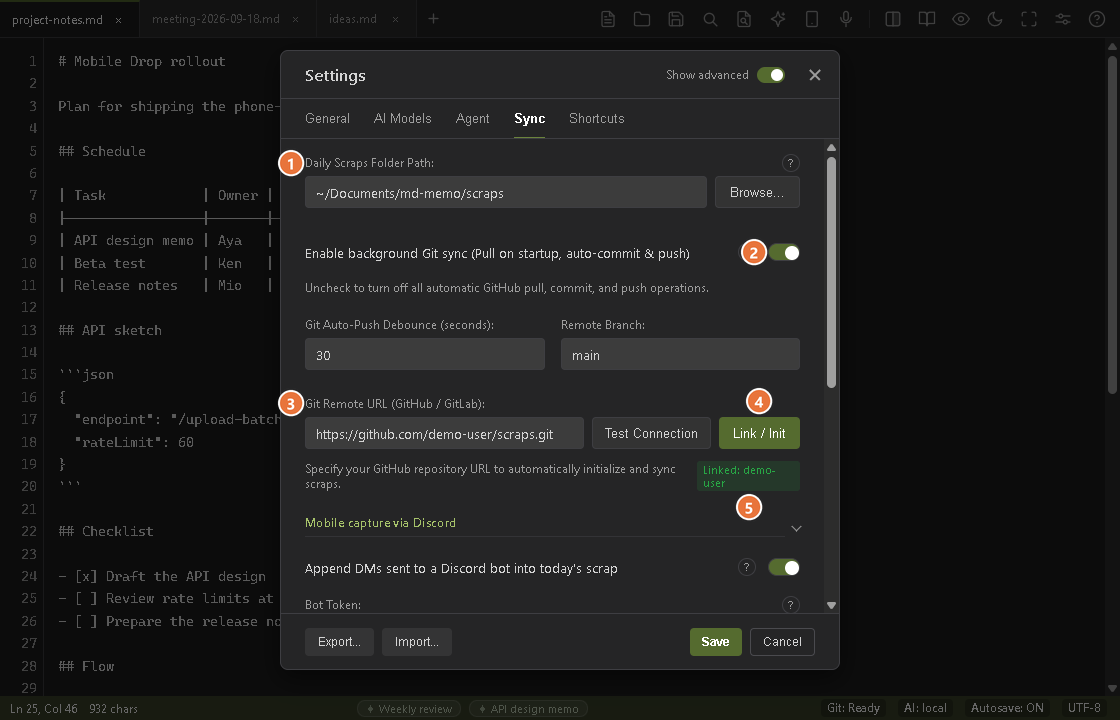
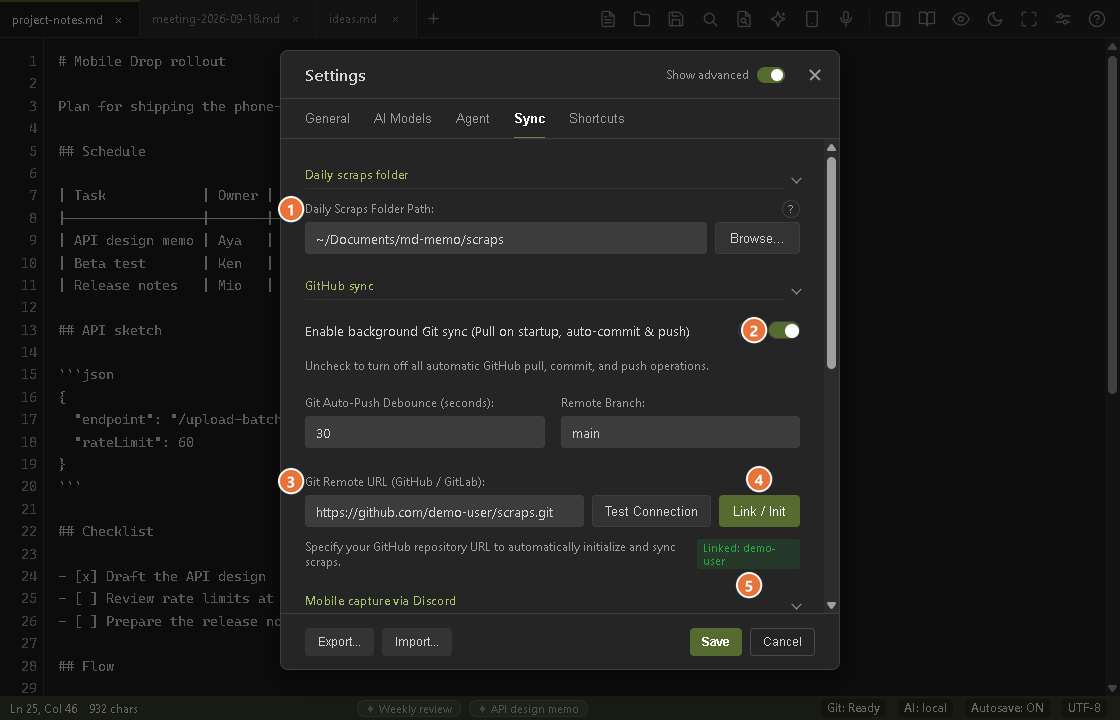
feat(settings): the Sync tab folds into Scraps folder and GitHub sync, Send To folds too; drop the model summary card
The Sync tab gets two sections like the others (the scraps folder stays open, GitHub sync starts folded) and the Send To section is wrapped as well: without the native binding app.js now hides the whole fold. The 'feature -> model setting' card in the AI Models tab repeated what each section says (the image-generation key already says it inherits in its placeholder) and named a tab that does not exist in English, so it and its strings are gone. Manual pictures re-shot.

diff --git a/frontend/js/i18n.js b/frontend/js/i18n.js
@@ -909,6 +909,8 @@ const I18N = {
 
     // --- Send To (Explorer right-click OCR) ---
     sectionSendTo: "OS Integration (Send To)",
+    sectionScrapFolder: "Daily scraps folder",
+    sectionGitHub: "GitHub sync",
     sendToLabel: "Send To menu (image → OCR)",
     sendToHint: "Right-click an image file in Explorer → Send To → MD-Memo (OCR) to extract its text into today's scrap.",
     sendToStatusInstalled: "Installed",
@@ -920,13 +922,6 @@ const I18N = {
     // --- Settings screen mistake-proofing & clarity ---
     languageImeGuardianHint: "Choosing Japanese also turns on IME Guardian, in the Editor & Input section below (you can turn it off there).",
     statusChecking: "Checking...",
-    modelSummaryTitle: "Feature → Which model setting it uses",
-    modelSummaryRowWrite: "Write / Chat / Ask AI → Text LLM",
-    modelSummaryRowCli: "Run (CLI command generation) → Text LLM (blank = inherit)",
-    modelSummaryRowGhost: "Text prediction (ghost text) → its own settings below",
-    modelSummaryRowVision: "Image OCR & Vision → its own settings below",
-    modelSummaryRowImageGen: "Image generation → Vision key → Text key (blank = inherit in that order)",
-    modelSummaryRowActions: "Suggestions (Quick Actions) → its own settings (Delegate tab)",
     textModelFallbackHint: "If blank: qwen2.5:latest",
     cliModelHint: "Blank = use the Text model from the AI Models tab.",
     actionApiBlockHint: "With both URL and API key blank, nothing leaves your machine — suggestions come from built-in local rules. If you fill them in, the text around your caret is sent to that API.",
@@ -1995,6 +1990,8 @@ const I18N = {
 
     // --- 送る（エクスプローラー右クリックOCR） ---
     sectionSendTo: "OS連携（送る）",
+    sectionScrapFolder: "保存先フォルダ",
+    sectionGitHub: "GitHub連携",
     sendToLabel: "「送る」メニュー（画像→OCR）",
     sendToHint: "エクスプローラーで画像ファイルを右クリック→送る→MD-Memo (OCR) を選ぶと、文字を抽出して今日のスクラップに追記します。",
     sendToStatusInstalled: "設置済み",
@@ -2006,13 +2003,6 @@ const I18N = {
     // --- 設定画面: 誤操作防止・明確化 ---
     languageImeGuardianHint: "日本語を選ぶと、下の「エディタ & 入力」にある IME Guardian も自動でオンになります（そこで変更できます）。",
     statusChecking: "確認中...",
-    modelSummaryTitle: "機能 → 使われるモデル設定",
-    modelSummaryRowWrite: "書く・チャット・AIに質問 → テキストLLM",
-    modelSummaryRowCli: "実行する（CLIコマンド生成） → テキストLLM（空欄で継承）",
-    modelSummaryRowGhost: "入力予測（ゴーストテキスト） → 以下の専用設定",
-    modelSummaryRowVision: "画像OCR・Vision → 以下の専用設定",
-    modelSummaryRowImageGen: "画像生成 → Vision のキー → テキストのキー（空欄でこの順に継承）",
-    modelSummaryRowActions: "提案（アクション候補） → 専用設定（連携タブ）",
     textModelFallbackHint: "空欄の場合: qwen2.5:latest",
     cliModelHint: "空欄なら『AIモデル』タブのテキスト用モデルを使います",
     actionApiBlockHint: "URL と API キーが両方空欄なら、ノートの内容は外部に送信されず、内蔵のローカル推論だけで候補を出します。入力すると、キャレット周辺のテキストがその API に送信されます。",

diff --git a/frontend/index.html b/frontend/index.html
@@ -623,16 +623,6 @@
 
           <!-- 2. AIモデル (AI Models: Text, Ghost Text, Vision, Image Gen) -->
           <div id="pane-model" class="settings-pane hidden">
-            <!-- Which feature uses which model setting, at a glance -->
-            <details class="model-summary-card" style="background: rgba(255, 255, 255, 0.03); border: 1px solid var(--border-color); border-radius: 6px; padding: 8px 14px; margin-bottom: 12px; font-size: 12px; line-height: 1.7;">
-              <summary style="font-weight: 600; cursor: pointer;" data-i18n="modelSummaryTitle">Feature &rarr; Which model setting it uses</summary>
-              <div data-i18n="modelSummaryRowWrite">Write / Chat / Ask AI &rarr; Text LLM</div>
-              <div data-i18n="modelSummaryRowCli">Run (CLI command generation) &rarr; Text LLM (blank = inherit)</div>
-              <div data-i18n="modelSummaryRowGhost">Ghost Text autocomplete &rarr; its own settings below</div>
-              <div data-i18n="modelSummaryRowVision">Image OCR &amp; Vision &rarr; its own settings below</div>
-              <div data-i18n="modelSummaryRowImageGen">Image generation &rarr; Vision key &rarr; Text key (blank = inherit in that order)</div>
-              <div data-i18n="modelSummaryRowActions">Suggestions (Quick Actions) &rarr; its own settings (Delegate tab)</div>
-            </details>
             <!-- Local AI Setup -->
             <div id="local-ai-card" class="local-ai-card" style="background: rgba(255, 255, 255, 0.04); border: 1px solid var(--border-color); border-radius: 6px; padding: 12px 14px; margin-bottom: 16px;">
               <div style="display: flex; justify-content: space-between; align-items: center;">
@@ -1083,7 +1073,7 @@
             </div>
 
             <!-- Section 5: OS連携（送る） -->
-            <div id="sendto-section" class="settings-section-header" data-plain style="margin-top: 18px;">
+            <div id="sendto-section" class="settings-section-header" style="margin-top: 18px;">
               <h4 data-i18n="sectionSendTo">OS Integration (Send To)</h4>
             </div>
             <div id="sendto-card" class="local-ai-card" style="background: rgba(255, 255, 255, 0.04); border: 1px solid var(--border-color); border-radius: 6px; padding: 12px 14px;">
@@ -1118,6 +1108,9 @@
               </div>
             </div>
 
+            <div class="settings-section-header" data-basic>
+              <h4 data-i18n="sectionScrapFolder">Daily scraps folder</h4>
+            </div>
             <div class="form-group">
               <label for="cfg-scrap-dir" data-i18n="scrapDirLabel">Daily Scraps Folder Path:</label>
               <div style="display: flex; gap: 8px;">
@@ -1126,7 +1119,10 @@
               </div>
               <small data-i18n="scrapDirHint">Folder where piped logs (cat file | md-memo) and daily notes are saved.</small>
             </div>
-            <div class="form-group inline-group" style="margin-top: 14px;">
+            <div class="settings-section-header" style="margin-top: 18px;">
+              <h4 data-i18n="sectionGitHub">GitHub sync</h4>
+            </div>
+            <div class="form-group inline-group">
               <label>
                 <input type="checkbox" id="cfg-git-sync-enabled" checked> <span data-i18n="gitSyncEnabledLabel">Enable background Git sync (Pull on startup, auto-commit & push)</span>
               </label>

diff --git a/frontend/js/app.js b/frontend/js/app.js
@@ -10959,6 +10959,9 @@ STRICT SYNTAX SAFETY RULES:
   const sendToCard = document.getElementById('sendto-card');
   const hasSendToBackend = !!(window.backend && window.backend.isSendToShortcutInstalled);
   if (!hasSendToBackend) {
+    // the section is folded like the others, so hide the whole fold, not just its heading
+    const sendToFold = sendToSection && sendToSection.closest && sendToSection.closest('details.settings-section');
+    if (sendToFold) sendToFold.classList.add('hidden');
     if (sendToSection) sendToSection.classList.add('hidden');
     if (sendToCard) sendToCard.classList.add('hidden');
   }

diff --git a/img/manual/shots.md b/img/manual/shots.md
@@ -410,7 +410,7 @@ annotation text. Everything shown is demo data on a fixed date (2026-09-18).
 ## settings-general
 
 - Files: `img/manual/ja/settings-general.png`, `img/manual/en/settings-general.png`
-- Size: 1120x720 px (ja 44 KB, en 39 KB)
+- Size: 1120x720 px (ja 43 KB, en 39 KB)
 - Kind: full picture
 - State: Settings dialog, General tab.
 - Markers:
@@ -482,7 +482,7 @@ annotation text. Everything shown is demo data on a fixed date (2026-09-18).
 ## settings-sync
 
 - Files: `img/manual/ja/settings-sync.png`, `img/manual/en/settings-sync.png`
-- Size: 1120x720 px (ja 46 KB, en 42 KB)
+- Size: 1120x720 px (ja 45 KB, en 40 KB)
 - Kind: full picture
 - State: Settings dialog, Sync tab (scraps folder and Git).
 - Markers:
@@ -519,7 +519,7 @@ annotation text. Everything shown is demo data on a fixed date (2026-09-18).
 ## settings-toolbar
 
 - Files: `img/manual/ja/settings-toolbar.png`, `img/manual/en/settings-toolbar.png`
-- Size: 1120x720 px (ja 53 KB, en 48 KB)
+- Size: 1120x720 px (ja 52 KB, en 48 KB)
 - Kind: full picture
 - State: Settings dialog, General tab, the toolbar and right-click menu customization section opened.
 - Markers:
